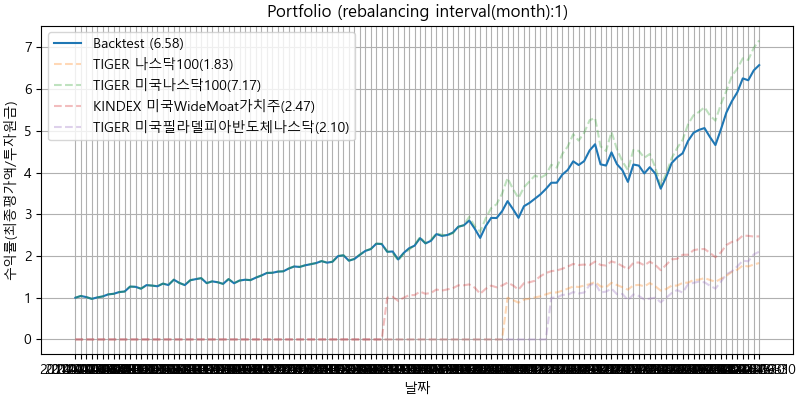
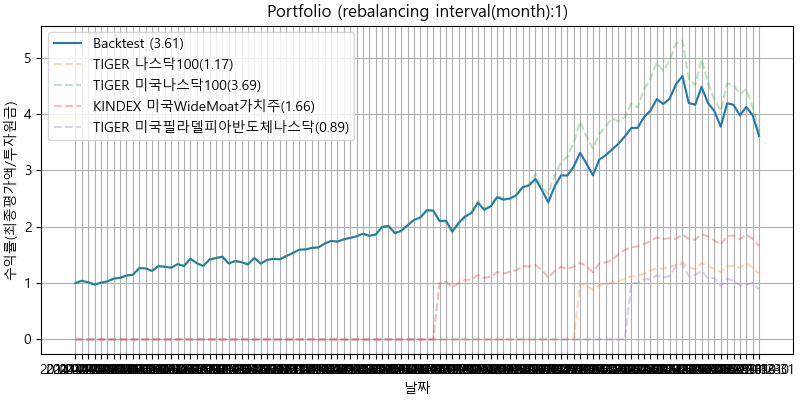
I commited before Merge

diff --git a/stock_backtest.py b/stock_backtest.py
@@ -114,9 +114,9 @@ def buy_stock_more(money, stock_price, last_stock_num, stock_rate):
     stock_num = money * stock_rate // stock_price
     stock_money = stock_num * stock_price
     if last_stock_num < stock_num:
-        fee = 0.00015 # 매수 수수료
+        fee = 0.001 # 매수 수수료
     else:
-        fee = 0.0023 # 매도 수수료
+        fee = 0.001 # 매도 수수료
     buy_sell_fee = stock_num * stock_price * fee
     while stock_num > 0 and money < (stock_money + buy_sell_fee):
         stock_num -= 1
@@ -335,7 +335,9 @@ def back_test(stock_info):
 
     return result
 
-# 클라이언트로부터 JSON 데이터를 받았다고 가정하고 실행
+# 클라이언트
+
+
 client_json_data = {
     "start_from_latest_stock": "false",     #이게 true면 가장 늦게 상장된 걸 기준으로 백테스팅 ,false면 가장 먼저 상장된걸 기준으로 백테스팅
     "portfolio": {
@@ -348,10 +350,9 @@ client_json_data = {
         "balance": 1000000,
         "interval_month": 1,        #리밸런싱할 기간. 1달마다 다시 0.25퍼가 되도록 매수 매도를 진행
         "start_date": "20140101",
-        "end_date": "20241231"
+        "end_date": "20221231"
     }
 }
 
+
 result = back_test(client_json_data)
-print(result)
-# %%
